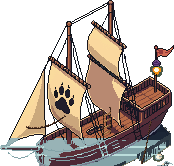
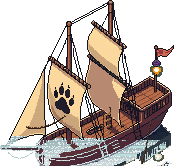
Silence the mid-field checker, resolve the top edge, sink the hull in
The depth dither that broke ramp banding was also the diamond checker:
on the steep lit mid-stops a +-0.04 dep jitter is +-10 luma per tile.
Dither is depth-keyed now - strong on the flat shallow plateau where
banding actually threatens, near-zero through the steep mid-band - and
the abyss veil flattens fully at the far edge so the sea resolves into
one deep body instead of dying in faint rows at the frame top.

The ship reflection is ripple-sliced and fades with depth instead of
sitting like a cardboard cutout, a broken foam lace rides the hull
waterline the way the sea rocks wear their collars, the last detached
glint blob at the stern is gone, and the anchored boats foam rings
came up so nothing floats on the open water.

diff --git a/src/game/BeachIso.tsx b/src/game/BeachIso.tsx
@@ -388,10 +388,13 @@ export default function BeachIso() {
           const ds = (tx + ty) - shoreAt(tx - ty) // signed diagonal distance from the waterline (+ = onto land)
           let base: Texture | undefined
           if (isSea) {
-            // depth in [0,1], DITHERED per tile so the ramp steps interleave instead of banding
-            // (stronger dither in the shallows where each tile row would otherwise read as a step)
+            // depth in [0,1], DITHERED per tile so the ramp steps interleave instead of banding.
+            // The dither is DEPTH-KEYED: strong on the shallow plateau (flat ramp, banding risk,
+            // cheap dither), near-zero through the lit mid-band where the ramp is STEEP — there
+            // a +-0.04 dep dither was +-10 luma per tile, i.e. the visible diamond checker
             const raw = -ds / DEPTH_RANGE
-            const dep = Math.min(1, Math.max(0, raw + (hash(tx * 7.7, ty * 5.3) - 0.5) * (raw < 0.18 ? 0.11 : 0.06)))
+            const dAmp = raw < 0.14 ? 0.1 : raw < 0.55 ? 0.022 : 0.05
+            const dep = Math.min(1, Math.max(0, raw + (hash(tx * 7.7, ty * 5.3) - 0.5) * dAmp))
             const h = hash(tx * 1.3, ty * 2.7)
             const pool = dep < 0.1 ? W_CALM
               : dep < 0.3 ? (h < 0.6 ? W_CALM : W_SOFT)
@@ -415,7 +418,8 @@ export default function BeachIso() {
           sp.position.set(isoX(tx, ty), isoY(tx, ty) - lift); sp.zIndex = (tx + ty) * 16
           if (isSea) {
             const raw = -ds / DEPTH_RANGE
-            const dep = Math.min(1, Math.max(0, raw + (hash(tx * 7.7, ty * 5.3) - 0.5) * (raw < 0.18 ? 0.11 : 0.06)))
+            const dAmp = raw < 0.14 ? 0.1 : raw < 0.55 ? 0.022 : 0.05
+            const dep = Math.min(1, Math.max(0, raw + (hash(tx * 7.7, ty * 5.3) - 0.5) * dAmp))
             // broad drifting patches (cloud-light) — NO per-tile grain (any per-tile value step
             // reads as a checkerboard at distance; the ramp + patches carry all variation)
             const patch = 0.955 + 0.09 * vnoise(tx / 22 + 7, ty / 22 + 2)
@@ -473,7 +477,9 @@ export default function BeachIso() {
             if (dep > 0.09) {
               const k = Math.min(1, (dep - 0.09) / 0.48)
               a = 0.5 * k * k * (3 - 2 * k) // smoothstep body
-              if (dep > 0.8) a += 0.07 * Math.min(1, (dep - 0.8) / 0.2) // abyss flattens fully
+              // the abyss flattens FULLY: at the frame's top edge the sea resolves into one
+              // deep body (no tile rows dying unresolved against the map edge)
+              if (dep > 0.78) { const kk = Math.min(1, (dep - 0.78) / 0.22); a += 0.24 * kk * kk }
               // huge slow value clouds break any residual regularity in the veil itself
               const wx = x0 + (cx + 0.5) * RES
               a *= 0.86 + 0.28 * vnoise(wx / 1250 + 3.2, wy / 720 + 8.1)
@@ -737,7 +743,7 @@ export default function BeachIso() {
         world.addChild(sh)
         const ring = new Sprite(shadowTexLife); ring.anchor.set(0.5)
         ring.tint = 0xeafff6; ring.blendMode = 'add'
-        ring.width = t.width * sc * 0.85; ring.height = ring.width * 0.24; ring.alpha = 0.42
+        ring.width = t.width * sc * 0.98; ring.height = ring.width * 0.24; ring.alpha = 0.55
         ring.position.set(bx, by + 4); ring.zIndex = sPos * 16 + 3
         world.addChild(ring)
         const sp = new Sprite(t); sp.anchor.set(0.5, 0.86); sp.scale.set(flip ? -sc : sc, sc)
